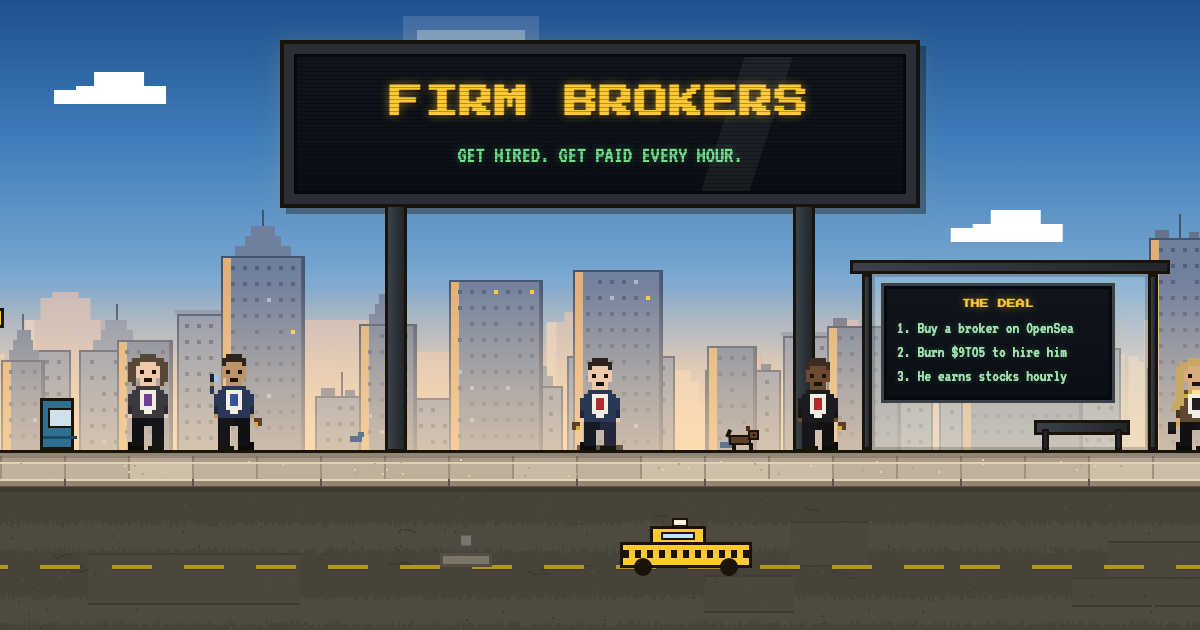
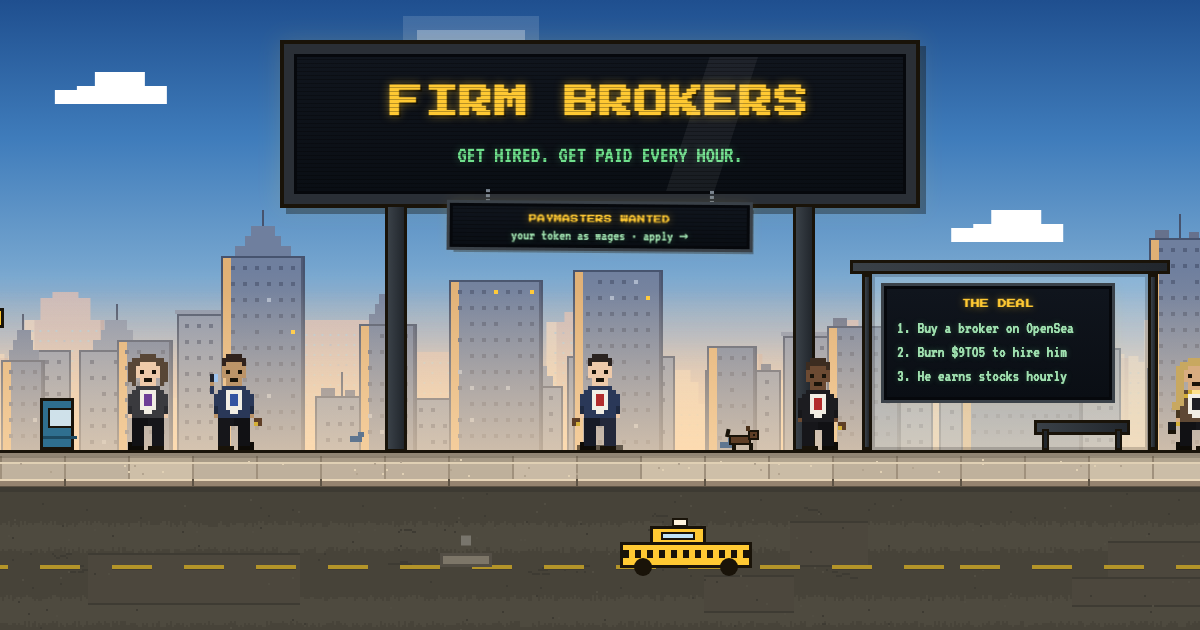
street: PAYMASTERS WANTED, chained under the billboard, opens the apply page

Changed region(s): [[0.37, 0.3016, 0.6475, 0.4222], [0.4625, 0.5429, 0.5242, 0.6937]]

diff --git a/level.css b/level.css
@@ -277,6 +277,41 @@ button { font-family: inherit; cursor: pointer; }
   background: linear-gradient(90deg, #3a4148, #21262c); border: 3px solid var(--ink);
 }
 .fb-billboard::before { left: 16%; }
+
+/* ---- the hiring sign, chained under the billboard (2026-09-02) ---- */
+.fb-hire {
+  /* the billboard's box ends 260px above the ground (measured); the sign's 60px hang from there */
+  position: absolute; bottom: calc(var(--ground-h) + 200px); width: 300px; height: 60px;
+  display: block; text-decoration: none; transform-origin: 50% -4px; z-index: 3;
+  animation: fb-sway 6s ease-in-out infinite alternate;
+}
+.fb-hire .chain {
+  position: absolute; top: 0; width: 4px; height: 14px;
+  background: repeating-linear-gradient(#7b8590 0 3px, transparent 3px 5px);
+}
+.fb-hire .chain.l { left: 36px; } .fb-hire .chain.r { right: 36px; }
+.fb-hire .board {
+  position: absolute; top: 14px; left: 0; right: 0; height: 44px; box-sizing: border-box;
+  padding: 7px 10px 6px; text-align: center;
+  background: linear-gradient(#10151d, #0a0e14); border: 3px solid #06080c;
+  box-shadow: 0 0 0 3px #3a4148, 0 0 14px #ffc9332a, 4px 5px 0 rgba(25, 19, 9, 0.34);
+}
+.fb-hire .board::after {
+  content: ""; position: absolute; inset: 0; pointer-events: none;
+  background: repeating-linear-gradient(0deg, transparent 0 3px, #00000048 3px 4px);
+}
+.fb-hire b {
+  display: block; font-family: var(--font-display); font-size: 8px; letter-spacing: .04em;
+  color: var(--gold); text-shadow: 0 0 8px #ffc93370;
+}
+.fb-hire u {
+  display: block; text-decoration: none; margin-top: 3px; line-height: 1;
+  font-family: var(--font-data); font-size: 15px; color: #9fe0af; text-shadow: 0 0 6px #6fe08c44;
+}
+.fb-hire:hover .board { box-shadow: 0 0 0 3px #56626d, 0 0 24px #ffc93355, 4px 5px 0 rgba(25, 19, 9, 0.34); }
+.fb-hire:hover b { color: #fff1b8; }
+@keyframes fb-sway { from { transform: rotate(-1.2deg); } to { transform: rotate(1.2deg); } }
+@media (prefers-reduced-motion: reduce) { .fb-hire { animation: none; } }
 .fb-billboard::after { right: 16%; }
 
 /* signposts along the walk: LED displays standing on chart candles */

diff --git a/index.html b/index.html
@@ -17,8 +17,8 @@
   <meta name="twitter:image" content="https://thefirmbrokers.com/og-street.png">
   <link rel="icon" type="image/png" href="favicon.png">
   <link rel="apple-touch-icon" href="favicon.png">
-  <link rel="stylesheet" href="level.css?v=1788364233">
-  <link rel="stylesheet" href="xapply.css?v=1788364233">
+  <link rel="stylesheet" href="level.css?v=1788367031">
+  <link rel="stylesheet" href="xapply.css?v=1788367031">
 </head>
 <body>
 
@@ -57,18 +57,18 @@
 
   <div id="fb-toast" class="fb-toast"></div>
 
-  <script src="config.js?v=1788364233"></script>
-  <script src="firm.js?v=1788364233"></script>
-  <script src="city.js?v=1788364233"></script>
-  <script src="lobby.js?v=1788364233"></script>
-  <script src="flathero.js?v=1788364233"></script>
-  <script src="xapply.js?v=1788364233"></script>
+  <script src="config.js?v=1788367031"></script>
+  <script src="firm.js?v=1788367031"></script>
+  <script src="city.js?v=1788367031"></script>
+  <script src="lobby.js?v=1788367031"></script>
+  <script src="flathero.js?v=1788367031"></script>
+  <script src="xapply.js?v=1788367031"></script>
   <!-- registers window.__AUCTION; level.js calls it guarded, so this file
        being absent or stale is a working page, not a broken room -->
-  <script src="auction.js?v=1788364233"></script>
+  <script src="auction.js?v=1788367031"></script>
   <!-- registers window.__CAMPAIGN (sponsored campaigns); level.js calls it guarded -->
-  <script src="campaign.js?v=1788364233"></script>
-  <script src="level.js?v=1788364233"></script>
+  <script src="campaign.js?v=1788367031"></script>
+  <script src="level.js?v=1788367031"></script>
 <!-- SELF-HEAL. index.html is served cache-control: max-age=600, so for ten
      minutes after a deploy a returning visitor holds the previous index, which
      carries the previous ?v= stamps and therefore loads the previous JS as a

diff --git a/level.js b/level.js
@@ -891,7 +891,23 @@
     // the worst possible moment for it. Buying lives in the zone bar on every
     // screen and at the bank's cash machine, which is where it belongs.
     bb.appendChild(bbInner);
+    // The hiring sign, chained under the billboard: the one thing on the
+    // street that speaks to a PROJECT rather than a holder. It hangs at the
+    // spawn point, in the same sign language as everything else, and it is a
+    // link: the apply page is where a token becomes an extra paycheck.
+    const hire = el("a", "fb-hire");
+    hire.href = "apply.html";
+    hire.target = "_blank";
+    hire.rel = "noopener";
+    hire.title = "Build a campaign: your token, paid to brokers as wages";
+    hire.innerHTML = `<i class="chain l"></i><i class="chain r"></i>
+      <span class="board"><b>PAYMASTERS WANTED</b><u>your token as wages &middot; apply &rarr;</u></span>`;
     front.appendChild(px(bb, { left: "540px" }));
+    // its own object, not a control on the brand sign (the billboard's rule is
+    // that it carries nothing to press, and test/ui/city.mjs holds that): it
+    // hangs from the billboard's underside, centred on it: the sign measures
+    // 640 wide from 540, so its centre is 860 (START_X) and the sign is 300.
+    front.appendChild(px(hire, { left: "710px" }));
 
 
     // Two lines each, broken by hand rather than left to wrap. The board is a

diff --git a/market.html b/market.html
@@ -9,7 +9,7 @@
   <meta property="og:title" content="The Market — Firm Brokers">
   <meta property="og:description" content="Check any broker's level before you decide. Levels and merges live on-chain, not in the picture.">
   <link rel="icon" type="image/png" href="favicon.png">
-  <link rel="stylesheet" href="market.css?v=1788364233">
+  <link rel="stylesheet" href="market.css?v=1788367031">
 </head>
 <body>
   <div class="mk-ticker"><div class="tape" id="mk-tape">FIRM BROKERS · THE MARKET · LOADING THE BOOK…&nbsp;&nbsp;&nbsp;·&nbsp;&nbsp;&nbsp;FIRM BROKERS · THE MARKET · LOADING THE BOOK…&nbsp;&nbsp;&nbsp;·&nbsp;&nbsp;&nbsp;</div></div>
@@ -49,8 +49,8 @@
     <footer class="mk-foot">prices from <a href="https://opensea.io/collection/thefirmbrokers" rel="noopener">OpenSea</a> · levels from Robinhood Chain · not advice</footer>
   </main>
 
-  <script src="config.js?v=1788364233"></script>
-  <script src="firm.js?v=1788364233"></script>
-  <script src="market.js?v=1788364233"></script>
+  <script src="config.js?v=1788367031"></script>
+  <script src="firm.js?v=1788367031"></script>
+  <script src="market.js?v=1788367031"></script>
 </body>
 </html>

diff --git a/apply.html b/apply.html
@@ -10,7 +10,7 @@
 <meta property="og:title" content="Build a campaign">
 <meta property="og:description" content="Configure, fund on chain, and we review. Your token becomes an extra paycheck brokers can opt into.">
 <meta property="og:image" content="https://thefirmbrokers.com/og-street.png">
-<link rel="stylesheet" href="campaign.css">
+<link rel="stylesheet" href="campaign.css?v=1788367031">
 <style>
 .form{display:grid;gap:14px}
 .form label{display:grid;gap:5px;font-size:14px;color:var(--ink-2)}
@@ -138,8 +138,8 @@
 <p class="plain" style="margin-top:28px">Questions first? <a href="https://x.com/thefirmbrokers" target="_blank" rel="noopener"><b>@thefirmbrokers</b></a> on X. The mechanics are in the <a href="/payroll">payroll page</a> and the <a href="/docs">handbook</a>.</p>
 </div>
 
-<script src="config.js"></script>
-<script src="campaign-pages.js"></script>
+<script src="config.js?v=1788367031"></script>
+<script src="campaign-pages.js?v=1788367031"></script>
 <script>
 (function () {
   const $ = (id) => document.getElementById(id);

diff --git a/campaign.html b/campaign.html
@@ -9,7 +9,7 @@
 <meta property="og:title" content="Campaigns">
 <meta property="og:description" content="A partner's token, bought on the open market and paid to brokers hour by hour. Every number is on chain.">
 <meta property="og:image" content="https://thefirmbrokers.com/og-street.png">
-<link rel="stylesheet" href="campaign.css">
+<link rel="stylesheet" href="campaign.css?v=1788367031">
 <style>
 .list{display:grid;gap:12px}
 .card{border:1px solid var(--rule);border-radius:8px;padding:14px 16px;background:var(--card);display:grid;grid-template-columns:1fr auto;gap:6px 14px;align-items:center;text-decoration:none;color:inherit}
@@ -46,8 +46,8 @@
 <div id="app"><p class="plain">Loading from the chain…</p></div>
 </div>
 
-<script src="config.js"></script>
-<script src="campaign-pages.js"></script>
+<script src="config.js?v=1788367031"></script>
+<script src="campaign-pages.js?v=1788367031"></script>
 <script>
 (async function () {
   const app = document.getElementById("app");

diff --git a/flathero.js b/flathero.js
@@ -364,6 +364,11 @@
       });
       chips.appendChild(b);
     });
+    // the same door the street's hiring sign opens: a project's way in
+    const pay = el("button", null, "BE THE PAYCHECK");
+    pay.type = "button";
+    pay.addEventListener("click", () => { location.href = "apply.html"; });
+    chips.appendChild(pay);
     // the allowlist checker — guarded, so a stale cached page without
     // wlcheck.js simply shows no chip rather than a dead button
     // and not once every broker is minted: level.js raises __FB_SOLD_OUT from

diff --git a/docs.html b/docs.html
@@ -791,7 +791,7 @@ footer a{color:var(--ink-2)}
 
 </div>
 
-<script src="config.js?v=1788364233"></script>
+<script src="config.js?v=1788367031"></script>
 <script>
 // Addresses come from config.js (window.FIRM_CFG), never hardcoded here, so this
 // page cannot drift out of sync with the rest of the site or show a stale address.
